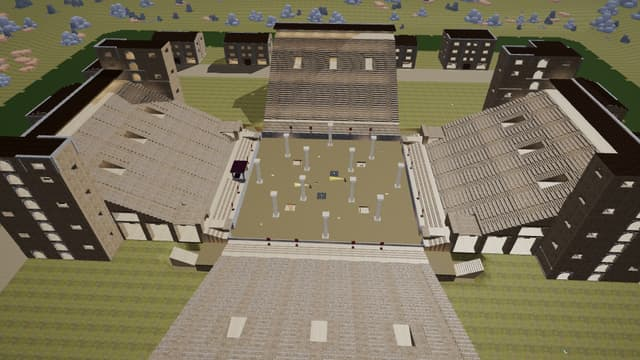
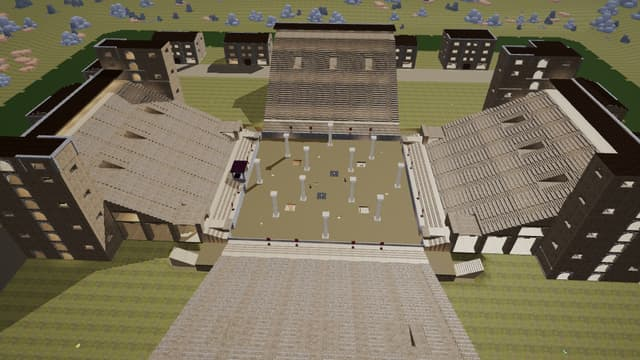
Sandfall follow-ups: docs (decisions, manifest QA, HANDOFF, CHANGELOG, plan as-built), the card shot redone
Claude-Session: https://claude.ai/code/session_012no7opCqP8rCoMpqLVd8kG

diff --git a/HANDOFF.md b/HANDOFF.md
@@ -345,6 +345,8 @@ Bot AI Phase D item 5's MapMaker part. Lands in the Tuesday train.
 
 - Claimed: map format v34 (Phase 5: time of day and weather, `wip/mapmaker-p5`), MapMaker lane, 2026-11-09.
 
+- Claimed: content tile ids `core.tunnel_vault_walled`, `core.tunnel_vault_bend_walled`, `core.tunnel_vault_t_walled`, `core.tunnel_vault_cross_walled` (the Side walls tile option; `wip/mapmaker-sandfall`), MapMaker lane, 2026-11-09.
+
 **Whiteout Station rebuilt from MAP 03 Frostbite Station (`wip/mapmaker-whiteout`, MapMaker lane, 2026-11-09; waits
 for the owner's review, not landed).**
 - Made in the real MapMaker only (a scratch Playwright driver: Import, plan-view drag-box Delete, Create terrain and
@@ -850,6 +852,23 @@ gets overloaded above that: local e2e times out and flakes). Prune landed worktr
   main 3 / 5 / 5 / 4, this branch 9 / 6 / 2 / 2 (17 against 19). Revert with a fix for the lift wait.
 - **Next:** the MapMaker lane may start Environment Phase 3's tools (line in the tandem section). Owner's look at the
   screenshots; the skipped maps above; card pictures.
+
+### Sandfall Colosseum follow-ups (`wip/mapmaker-sandfall`, agent, 2026-11-09; the owner's answers of 2026-11-09; CI on `check/mapmaker-sandfall`)
+- **Collision boxes 31,724 → 22,240:** the arcades under the tiers (all sides, gate lines kept) and the east and west
+  facades deleted in MapMaker, limestone "Stand fill" Sky Blocks in their place. The look from the sand is the same.
+  The rest is the tiers, the north/south facades, towers, village and hypogeum: going on to ~4,000 needs the owner
+  (report: coarser Grand-arch collision in the game, or cutting what you see).
+- **Portcullis gates 1-4** on winch and chain buttons (rules: Toggle door + buzzer), raised at the start;
+  **Deathmatch** offered; **side walls** on the four exit tunnels; the **hatch ladders turned round** (their tops let
+  you off over the hatch, so bots fell back: KotH stuck recoveries 604 → 98).
+- **MapMaker: tile options as tiles of their own** (`optionOf` in content/tiles/core.json; `shared/editor/tileVariants.ts`,
+  `client/editor/tileOptionPanel.ts`): the Vaulted Tunnels' **Side walls** (four new tile ids
+  `core.tunnel_vault*_walled`, hidden from the palette; the inspector's Options checkbox). No format change.
+- Docs: map-briefs/sandfall_colosseum DECISIONS ("Follow-ups") and manifest; BUILDING_KIT (Side walls);
+  MAPMAKER_OVERHAUL_PLAN ("Map follow-ups: tile options").
+- Note: an orphaned MapMaker driver from the first Sandfall session (`node server.mjs` in the scratchpad's `drv/`, and
+  its Chromium, since 2026-11-08) and a `vite preview` on port 4950 from a deleted worktree were still running and
+  using a core and a half; they weren't this session's to stop.
 
 ### Sandfall Colosseum rebuilt in MapMaker (`wip/mapmaker-sandfall`, agent, 2026-11-08/09; the owner's brief docs/map-briefs/sandfall_colosseum/BRIEF.md; CI on `check/mapmaker-sandfall`)
 - **What:** the map rebuilt from the Flavius Rule board (manifest and decisions in docs/map-briefs/sandfall_colosseum/):

diff --git a/docs/map-briefs/sandfall_colosseum/DECISIONS_AND_DEVIATIONS.md b/docs/map-briefs/sandfall_colosseum/DECISIONS_AND_DEVIATIONS.md
@@ -69,3 +69,27 @@
 - 432 tiles, 367 set pieces (as placed), ~31,800 collision boxes (shipped maps: 2,700-3,900; the stands are most of
   it: 772 a radial line), lights 253 of 256 (the stands' bays and the hypogeum's torches: no room for braziers).
 - Server tick (bench, 24 bots, TDM, load 13): avg 3.9 ms, p95 10.3 ms (budget 16.7). Navmesh build 8-15 s.
+
+## Follow-ups (owner's answers, 2026-11-09; `wip/mapmaker-sandfall`)
+- **Collision boxes trimmed** ("drop the arcades on the far sides"; keep the look from the sand): the arcades under
+  the tiers on all four sides (depths 6-9 on the ground and level 2; the gate lines' passages kept) and the east and
+  west stands' facade arcades (three storeys each) deleted in MapMaker; ten Sky Blocks of limestone ("Stand fill")
+  fill under the tiers and stand as the east and west outer walls, so nothing hollow shows. **31,724 → 22,240** boxes
+  (the side walls and the gates add 16). Still about six times a shipped map: what is left is the tiers (4,264), the
+  north and south facades and gate lines (~4,300), the podium bays, the corner towers (3,136), the village (4,646) and
+  the hypogeum (1,846). Going further changes what you see (the village's insulae, the towers, the north and south
+  facades) or needs the game to merge boxes (a coarser collision for the Grand arch's 17 voussoir slices would take
+  about 7,000 off with no visible change): the owner's call (report). What went: the ambulacra under the stands
+  (walkable before; reached from the gates and towers) and the arcaded outside of the east and west stands (a plain
+  limestone wall now, seen from the east and west streets). The attic walk stays (6 boxes a bay; its lights matter).
+  Physics build 2.2 s → 1.1 s, navmesh 28.5 s → 13.3 s here (load 16-20; same machine, so comparable).
+- **Portcullis gates** (as the old map's main gate): a Portcullis door in each Gladiator Gate's opening onto the sand
+  (gates 1-4 at (±24, ±29)), a winch button in the passage and a chain button on the sand; each button's rule toggles
+  its gate and sounds the buzzer. They **start raised** (Embers spawn in the gate 3/4 passages; the old main gate
+  started down and its side gates opened by themselves): the owner's call (report). Bots press the buttons when a gate
+  is down across their route (docs/BOTS.md, doors).
+- **Deathmatch** offered again (Map properties, Also offered).
+- **Side walls** on the vaulted tunnels at the four ways out ((0, ±10), (±10, 0)), MapMaker's new tile option.
+- **Hatch ladders turned round:** their tops let you off 0.9 m on from the ladder, which was still over the 3.2 m
+  hatch, so climbers dropped back in; turned, they let you off onto the sand. Bot stuck recoveries (240 s, 24 bots,
+  seed 1): King of the Hill 604 → 98, CTF 555 → 223, TDM 260 → 160; no idle spells at the ladders after.

diff --git a/docs/map-briefs/sandfall_colosseum/MAP_IMPLEMENTATION_MANIFEST.md b/docs/map-briefs/sandfall_colosseum/MAP_IMPLEMENTATION_MANIFEST.md
@@ -7,7 +7,7 @@
 | Author / date | Tile Trigger, rebuilt in MapMaker 2026-11-08 (branch `wip/mapmaker-sandfall`) |
 | Status | Part 1: the playable build (structures, routes, modes, spawns, pickups). See "Progress" and "Left" |
 | Players | 12 v 12 (Map's pick), 8-24 recommended |
-| Modes | Team Deathmatch, Capture the Flag (gates 3/4 against gates 1/2), King of the Hill (the five medallions), Deathmatch |
+| Modes | Team Deathmatch, Capture the Flag (gates 3/4 against gates 1/2), King of the Hill (the five medallions), Deathmatch (offered again 2026-11-09) |
 | Weapon set | Medieval |
 
 ## World
@@ -74,3 +74,21 @@
 - Bots linger at the hatch ladders (the stuck spots above).
 - Lights are at 253 of 256 (the stands' bay lights): braziers on the sand need lights freed first.
 - The owner's questions (the report).
+
+## Follow-ups (2026-11-09)
+- **Stands:** the arcades under the tiers gone on all four sides (gate lines kept) and the east and west facades;
+  "Stand fill" Sky Blocks (limestone): N/S under the low tiers (0, 0, ±52) 40 × 8 × 16 m, under the high tiers
+  (0, 0, ±68) 40 × 16 × 16; E/W under the low tiers (±52, 0, 0) 16 × 8 × 56, under the high tiers (±68, 0, 0)
+  16 × 16 × 56, outer walls (±80, 0, 0) 8 × 24 × 56.
+- **Gates 1-4:** Portcullis doors "Gate 1" (24, 0, −29), "Gate 2" (−24, 0, −29), "Gate 3" (−24, 0, 29), "Gate 4"
+  (24, 0, 29), starting raised; buttons "Gate N winch" (in the passage, 2.5 m back) and "Gate N chain" (on the sand);
+  eight rules "Button pressed: Gate N winch/chain" → Toggle door, Play sound (buzzer).
+- **Tunnels:** Vaulted Tunnel (Side Walls) at (0, ±10) and (±10, 0), level −1.
+- **Hatch ladders** turned to face the other way (tops onto the sand).
+- **QA (2026-11-09, load 15-20 on 4 cores):** validate-map OK (0 issues); nav audit 0 traps, 0 errors (islands as
+  before); zfight.test.ts and stylePacksAncient.test.ts pass. Collision boxes 22,240. bot-report, 24 bots, 240 s:
+  TDM seed 1 embers 80 · tide 55 (136 kills, stuck 160, spawn deaths 0), seeds 2/3 (before the ladder fix) 38 · 36 and
+  28 · 33; CTF seed 1 embers 7 · tide 0 (7 captures, stuck 223); King of the Hill seed 1 embers 70 · tide 0 (hill
+  held 70 s, stuck 98); Deathmatch seed 1 275 kills, spawn deaths 11%. Stuck spots left: the court stairs down into the
+  hypogeum ((±36, −2, ±36), (−28, −2, −40)). Bench (24 bots, TDM, 60 s): CPU 3.85 ms a tick (p95 9.45) of 16.7.
+  Card shot redone (capture-map-shots: the aerial from the west).

diff --git a/CHANGELOG.md b/CHANGELOG.md
@@ -81,12 +81,14 @@ documented in docs/BOTS.md, "Bot hints (map data)").
 
 **Sandfall Colosseum, the owner's follow-ups** (2026-11-09, in MapMaker):
 - **Lighter to load:** the arcades under the tiers (all four sides; the gate passages kept) and the east and west
-  stands' outer arcades are gone, solid limestone in their place: 31,724 collision boxes → BOXES_AFTER. From the sand
+  stands' outer arcades are gone, solid limestone in their place: 31,724 collision boxes → 22,240. From the sand
   it looks the same: the podium, the tiers, the vomitoria and the attic walk are all there.
 - **The portcullis gates are back:** each of gates 1-4 has a portcullis in its opening onto the sand, worked by a
   winch in the passage and a chain on the sand (press either to raise or drop it, with the buzzer). They start raised.
 - **Deathmatch** is offered again, beside Team Deathmatch, Capture the Flag and King of the Hill.
 - The vaulted tunnels at the four ways out have side walls (below), so the ground beside them meets masonry.
+- The hatch ladders now let you off onto the sand at the top (they let you off over the open hatch, and bots fell
+  back in): bots no longer queue at them.
 
 **MapMaker: tunnels with side walls.** Select a Vaulted Tunnel (or its Bend, Junction or Crossing; one or several) and
 tick **Side walls** in the inspector's Options: its masonry rises to a kerb at ground level and the ground round it
